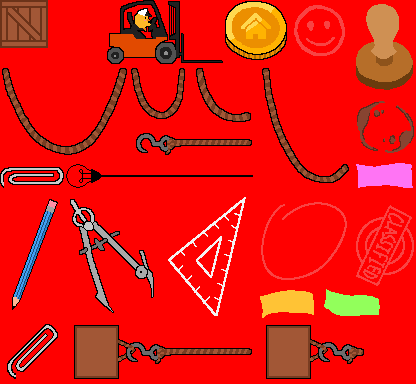
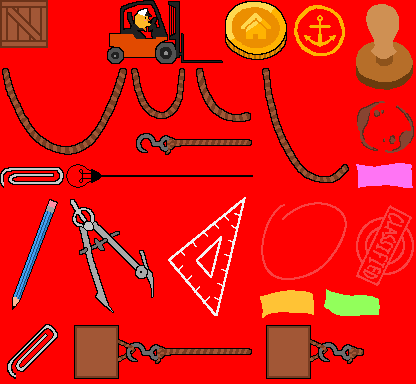
added the same stamp animation from the decoration store to the sortie selection popup

Changed region(s): [[0.6875, 0.0, 0.8438, 0.1562]]

diff --git a/src/menus/sortie_selection_menu.py b/src/menus/sortie_selection_menu.py
@@ -351,7 +351,11 @@ class SortieOrderCard:
     HEIGHT = 4.5*Box.HEIGHT + 4*Box.PADDING
     HEADER_BOTTOM = 64
     REWARD_TOP = 84
-    BUTTON_HEIGHT = Box.HEIGHT
+    AUTHORIZATION_HEIGHT = 72
+    AUTHORIZATION_DURATION = 1
+    AUTHORIZATION_IMPACT_TIME = 0.15
+    AUTHORIZATION_LIFT_TIME = 0.30
+    AUTHORIZATION_DISAPPEAR_TIME = 0.5
     CHART_GAP = 2 * Box.PADDING
 
     def __init__(self, authorize_sortie):
@@ -359,24 +363,27 @@ class SortieOrderCard:
         self.page_rect = self.rect.inflate(-2*Box.PADDING, -2*Box.PADDING - Box.HEIGHT/2)
         self.side = "right"
         self.node = None
+        self.authorize_sortie = authorize_sortie
+        self.authorizing = False
+        self.authorization_timer = 0
+        self.authorization_impact_played = False
+        self.authorization_pos = pygame.Vector2()
+
+        self.authorization_anchors = {
+            "muted": DataFiles.recolor_sprite("user_interface", "start_sortie", Color.DOSSIER_RULE),
+            "red":DataFiles.recolor_sprite("user_interface", "start_sortie", Color.START_SORTIE_BUTTON),
+        }
+        self.authorization_stamp = DataFiles.sprites["props"]["stamp"]
 
         self.button = Button(
-            get_rect(width=self.WIDTH - 4*Box.PADDING, height=self.BUTTON_HEIGHT, left=0, top=0),
-            authorize_sortie,
+            get_rect(
+                width=self.WIDTH - 4*Box.PADDING,
+                height=self.AUTHORIZATION_HEIGHT,
+                left=0,
+                top=0,
+            ),
+            self.begin_authorization,
             active=False,
-            background_styling={
-                "background_color": Color.START_SORTIE_BUTTON,
-                "background_img": DataFiles.sprites["user_interface"]["start_sortie"],
-                "background_img_align": (1/5, 1/2),
-            },
-            text_styling={
-                "text": "authorize sortie",
-                "text_align": (3/5, 1/2),
-                "text_color": Color.WHITE,
-            },
-            hover_styling={
-                "background_color": Color.HOVER_START_SORTIE_BUTTON,
-            },
         )
 
     @staticmethod
@@ -412,11 +419,17 @@ class SortieOrderCard:
         self.page_rect.bottom = self.rect.bottom - Box.PADDING
 
         self.button.rect.centerx = self.rect.centerx
-        self.button.rect.bottom = self.rect.bottom - 2*Box.PADDING
+        self.button.rect.bottom = self.page_rect.bottom - Box.PADDING
+        if not self.authorizing:
+            self.authorization_pos = pygame.Vector2(self.button.rect.center)
 
     def select(self, node, side, authorize_immediately):
         self.node = node
         self.side = side
+        self.authorizing = False
+        self.authorization_timer = 0
+        self.authorization_impact_played = False
+        self.authorization_pos = pygame.Vector2(self.button.rect.center)
         self.layout()
         self.button.active = authorize_immediately
 
@@ -424,6 +437,43 @@ class SortieOrderCard:
         self.node = None
         self.button.active = False
         self.button.hovered = False
+        self.authorizing = False
+        self.authorization_timer = 0
+        self.authorization_impact_played = False
+        self.authorization_pos = pygame.Vector2()
+
+    def begin_authorization(self, click_pos=None):
+        if self.node is None or self.authorizing or not self.button.active:
+            return
+
+        if click_pos is None:
+            click_pos = pygame.mouse.get_pos()
+        self.authorization_pos = pygame.Vector2(click_pos)
+        self.authorizing = True
+        self.authorization_timer = 0
+        self.authorization_impact_played = False
+        self.button.active = False
+        self.button.hovered = False
+
+    def update(self, dt):
+        if not self.authorizing:
+            return
+
+        previous_timer = self.authorization_timer
+        self.authorization_timer = min(
+            self.AUTHORIZATION_DURATION,
+            self.authorization_timer + dt,
+        )
+        if (
+            not self.authorization_impact_played
+            and previous_timer < self.AUTHORIZATION_IMPACT_TIME <= self.authorization_timer
+        ):
+            self.authorization_impact_played = True
+            DataFiles.sfx["click"].play()
+
+        if self.authorization_timer >= self.AUTHORIZATION_DURATION:
+            self.authorizing = False
+            self.authorize_sortie()
 
     def get_status(self):
         if self.node.cleared:
@@ -521,8 +571,111 @@ class SortieOrderCard:
             obtained_stamp.set_alpha(128)
             obtained_stamp_rect = obtained_stamp.get_rect()
             obtained_stamp_rect.centerx = self.page_rect.centerx
-            obtained_stamp_rect.top = self.page_rect.top + self.REWARD_TOP
+            obtained_stamp_rect.top = self.page_rect.top + self.REWARD_TOP - Box.HEIGHT/4
             surface.blit(obtained_stamp, obtained_stamp_rect)
+
+    @staticmethod
+    def draw_dashed_rect(surface, color, rect, dash_length=8, gap_length=4, width=2):
+        right = rect.right - 1
+        bottom = rect.bottom - 1
+        dash_step = dash_length + gap_length
+        for x in range(rect.left, right + 1, dash_step):
+            dash_right = min(x + dash_length, right)
+            pygame.draw.line(surface, color, (x, rect.top), (dash_right, rect.top), width)
+            pygame.draw.line(surface, color, (x, bottom), (dash_right, bottom), width)
+        for y in range(rect.top, bottom + 1, dash_step):
+            dash_bottom = min(y + dash_length, bottom)
+            pygame.draw.line(surface, color, (rect.left, y), (rect.left, dash_bottom), width)
+            pygame.draw.line(surface, color, (right, y), (right, dash_bottom), width)
+
+    def draw_authorization(self, surface, font_registry):
+        field_rect = self.button.rect
+        label_y = field_rect.top - 16
+        rule_y = field_rect.top - 24
+        content_left = self.page_rect.left + Box.PADDING
+        content_right = self.page_rect.right - Box.PADDING
+        pygame.draw.line(
+            surface,
+            Color.DOSSIER_RULE,
+            (content_left, rule_y),
+            (content_right, rule_y),
+        )
+        font_registry["big_pixel"].render(
+            surface,
+            "command authorization",
+            (content_left, label_y),
+            Color.DOSSIER_RULE,
+            1,
+        )
+
+        hovered = self.button.active and self.button.hovered
+        imprint_visible = (
+            self.authorizing
+            and self.authorization_timer >= self.AUTHORIZATION_IMPACT_TIME
+        )
+        action_highlighted = hovered or self.authorizing
+        ink_color = Color.START_SORTIE_BUTTON if action_highlighted else Color.DOSSIER_RULE
+
+        if hovered:
+            pygame.draw.rect(surface, Color.DOSSIER_CARD, field_rect)
+        self.draw_dashed_rect(surface, ink_color, field_rect, width=Box.OUTLINE_WIDTH)
+
+        font_registry["big_pixel"].render(
+            surface,
+            "stamp here",
+            (field_rect.centerx, field_rect.centery - 5),
+            ink_color,
+            2,
+            style="center",
+        )
+        font_registry["big_pixel"].render(
+            surface,
+            "authorize sortie",
+            (field_rect.centerx, field_rect.centery + 15),
+            ink_color,
+            1,
+            style="center",
+        )
+
+        if imprint_visible:
+            stamp_pattern_sprite = DataFiles.sprites["props"]["stamp_pattern"].copy()
+            if self.authorization_timer >= self.AUTHORIZATION_DISAPPEAR_TIME:
+                fade_duration = (
+                    self.AUTHORIZATION_DURATION
+                    - self.AUTHORIZATION_DISAPPEAR_TIME
+                )
+                fade_progress = (
+                    (self.AUTHORIZATION_DURATION - self.authorization_timer)
+                    / fade_duration
+                )
+                stamp_pattern_sprite.set_alpha(int(255 * fade_progress))
+            else:
+                stamp_pattern_sprite.set_alpha(255)
+            stamp_pattern_rect = stamp_pattern_sprite.get_rect()
+            stamp_pattern_rect.center = self.authorization_pos
+            surface.blit(stamp_pattern_sprite, stamp_pattern_rect)
+
+    def draw_authorization_stamp(self, surface):
+        if not self.authorizing or self.authorization_timer > self.AUTHORIZATION_LIFT_TIME:
+            return
+
+        target_pos = self.authorization_pos
+        raised_pos = target_pos - pygame.Vector2(0, Box.HEIGHT)
+        if self.authorization_timer <= self.AUTHORIZATION_IMPACT_TIME:
+            progress = self.authorization_timer / self.AUTHORIZATION_IMPACT_TIME
+            stamp_pos = raised_pos.lerp(target_pos, progress)
+        else:
+            lift_duration = self.AUTHORIZATION_LIFT_TIME - self.AUTHORIZATION_IMPACT_TIME
+            progress = (
+                (self.authorization_timer - self.AUTHORIZATION_IMPACT_TIME)
+                / lift_duration
+            )
+            stamp_pos = target_pos.lerp(raised_pos, progress)
+
+        stamp_rect = self.authorization_stamp.get_rect()
+        stamp_rect.centerx = round(stamp_pos.x)
+        stamp_rect.bottom = round(stamp_pos.y + Box.HEIGHT/2)
+        surface.blit(self.authorization_stamp, stamp_rect)
 
     def draw_props(self, surface):
         paperclip = DataFiles.sprites["props"]["diagonal_paperclip"]
@@ -539,8 +692,10 @@ class SortieOrderCard:
         self.draw_paper(surface)
         self.draw_header(surface, font_registry)
         self.draw_rewards(surface, font_registry)
+        self.draw_authorization(surface, font_registry)
         self.button.draw(surface, font_registry)
         self.draw_props(surface)
+        self.draw_authorization_stamp(surface)
 
 
 class SortieSelectionMenu:
@@ -771,6 +926,8 @@ class SortieSelectionMenu:
 
     def update(self, dt, events):
         for event in events:
+            if self.sortie_order_card.authorizing:
+                continue
             if event.type == pygame.MOUSEBUTTONDOWN:
                 if self.exit_sortie_selection_menu_button.rect.collidepoint(event.pos):
                     continue
@@ -800,8 +957,11 @@ class SortieSelectionMenu:
                 if self.exit_sortie_selection_menu_button.click(event.pos):
                     DataFiles.sfx["click"].play()
                     continue
-                if self.sortie_order_card.button.click(event.pos):
-                    DataFiles.sfx["click"].play()
+                if (
+                    self.sortie_order_card.button.active
+                    and self.sortie_order_card.button.rect.collidepoint(event.pos)
+                ):
+                    self.sortie_order_card.begin_authorization(event.pos)
                     continue
 
                 if self.selected_sortie_node is None:
@@ -821,6 +981,7 @@ class SortieSelectionMenu:
                         sortie_node.hover(event.pos)
 
         self.update_camera_pan(dt)
+        self.sortie_order_card.update(dt)
         self.background.update(dt)
         for fog in self.fogs:
             fog.update(dt)

diff --git a/src/menus/port_menu.py b/src/menus/port_menu.py
@@ -2221,9 +2221,9 @@ class PortMenu:
             coin_rect.y -= 6 # TODO decoration coin height magic number
             surface.blit(coin_sprite, coin_rect)
 
-        smiley_sprite = DataFiles.sprites["props"]["smiley"]
-        smiley_rect = smiley_sprite.get_rect()
-        smiley_rect.center = self.decoration_stamp_animation_pos
+        stamp_pattern_sprite = DataFiles.sprites["props"]["stamp_pattern"]
+        stamp_pattern_rect = stamp_pattern_sprite.get_rect()
+        stamp_pattern_rect.center = self.decoration_stamp_animation_pos
         if self.decoration_stamp_animation_timer > 0:
             elapsed = self.DECORATION_STAMP_ANIMATION_DURATION - self.decoration_stamp_animation_timer
             if elapsed >= self.DECORATION_STAMP_DISAPPEAR_TIME:
@@ -2231,11 +2231,11 @@ class PortMenu:
                     self.decoration_stamp_animation_timer
                     / (self.DECORATION_STAMP_ANIMATION_DURATION - self.DECORATION_STAMP_DISAPPEAR_TIME)
                 )
-                smiley_sprite.set_alpha(int(255 * progress))
-                surface.blit(smiley_sprite, smiley_rect)
+                stamp_pattern_sprite.set_alpha(int(255 * progress))
+                surface.blit(stamp_pattern_sprite, stamp_pattern_rect)
             elif elapsed >= self.DECORATION_STAMP_DOWN_TIME:
-                smiley_sprite.set_alpha(255)
-                surface.blit(smiley_sprite, smiley_rect)
+                stamp_pattern_sprite.set_alpha(255)
+                surface.blit(stamp_pattern_sprite, stamp_pattern_rect)
 
         stamp_sprite = DataFiles.sprites["props"]["stamp"]
         stamp_rect = stamp_sprite.get_rect()
